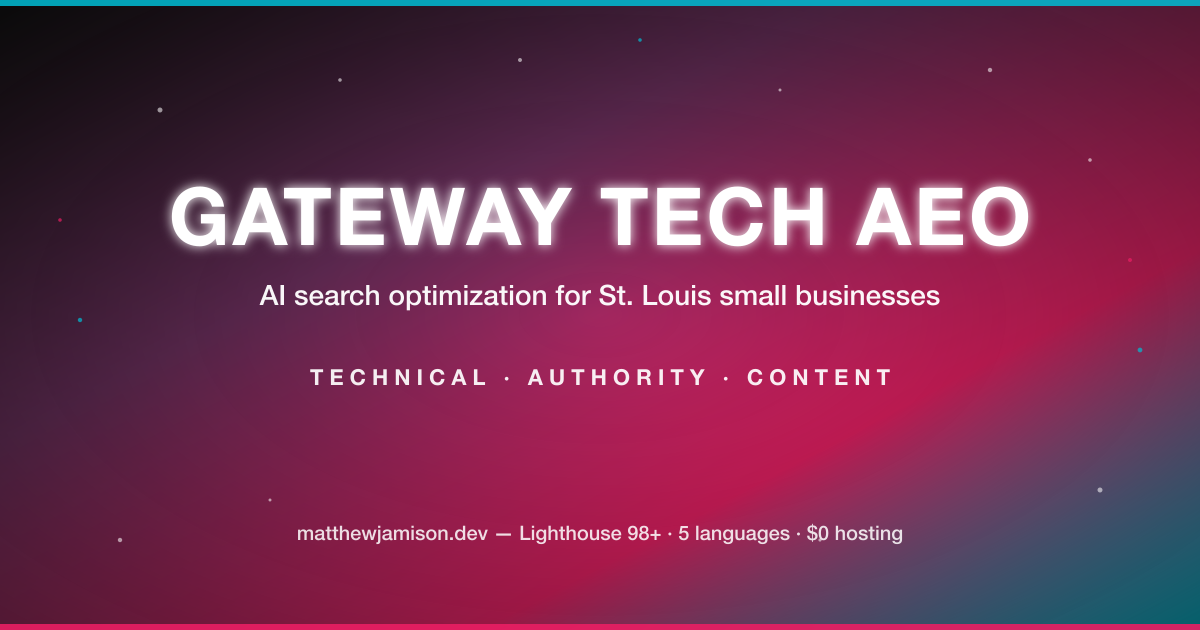
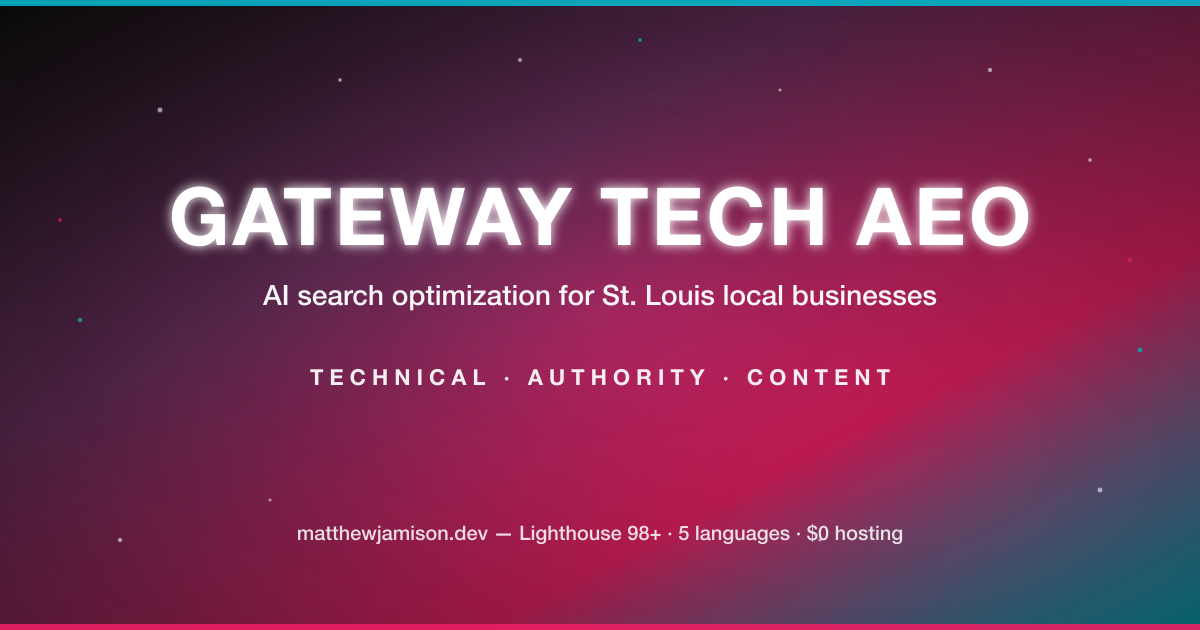
copy(aeo): lead hero with robots.txt + schema teach beat; shift small→local across EN+ES
Hero rewrite

Banner H1 now reads "Helping local businesses get cited by AI search."
The subtitle leads with the teach beat — answer engines pick what to cite
based on two free public signals, robots.txt and schema markup — both
hyperlinked to authoritative sources (Google Search Central + schema.org).
Verifiable claim sits at the end ("in your address bar — right now") so
the proof artifact closes the read.

Global "small business" → "local business"

Site-wide sweep across data files, blog posts, about page, demo cards,
JSON-LD descriptions, OG metadata, manifest, llms.txt, OG SVG + regenerated
PNG. Hugo title + description at the root + dev + prod configs.

Demo cards

Replaced corporate-slop description fields (only field that renders on
homepage given build.render: never) with concrete claims: theme name,
stack, Lighthouse 98/100, language count, and the one concrete savings
or capability that earns the demo a place on the page.

FAQ teach-first Q

Added Q2 in EN + ES: "What are robots.txt and schema markup, and why
do they matter for AEO?" Answer explains the two signals, named AI
crawlers (GPTBot, ClaudeBot, PerplexityBot), and the local business
default of blocking AI + shipping zero schema.

OG description fix

Banner subtitle carries markdown links. plainify alone leaves literal
[text](url) brackets in og:description and twitter:description. Wrapping
in markdownify first renders to HTML, then plainify strips tags cleanly.

Purgecss cleanup
[…]

Changed region(s): [[0.2158, 0.4524, 0.8017, 0.5127]]

diff --git a/layouts/partials/head.html b/layouts/partials/head.html
@@ -57,12 +57,15 @@
 	{{/* banner.title carries inline <em> HTML for the visible hero headline; strip it
 	     here so og:title / twitter:title ship clean text to social embeds and crawlers. */}}
 	{{ $ogTitle := cond .IsHome (printf "%s — %s" $brand.name (plainify $banner.title)) (printf "%s | %s" .Title site.Title) }}
-	{{ $ogDescription := cond .IsHome (plainify $banner.subtitle) (or .Description site.Params.description) }}
+	{{/* Banner subtitle carries markdown links (robots.txt, schema). Render
+	     markdown → HTML, then plainify strips the tags, so the OG/Twitter
+	     description ships clean text without literal "[text](url)" brackets. */}}
+	{{ $ogDescription := cond .IsHome (plainify (markdownify $banner.subtitle)) (or .Description site.Params.description) }}
 	{{/* Per-page OG image. Pages may set .Params.image (e.g. blog posts ship a
 	     1200×630 hero). Pages without an explicit image fall back to og-default.png.
 	     Audit M11 fix. */}}
 	{{ $ogImage := cond (isset .Params "image") (printf "%s%s" site.BaseURL (strings.TrimPrefix "/" (.Params.image | default ""))) (printf "%simages/og/og-default.png" site.BaseURL) }}
-	{{ $ogImageAlt := cond (isset .Params "image_alt") (.Params.image_alt | default "") (printf "%s — AI search optimization for St. Louis small businesses" $brand.name) }}
+	{{ $ogImageAlt := cond (isset .Params "image_alt") (.Params.image_alt | default "") (printf "%s — AI search optimization for St. Louis local businesses" $brand.name) }}
 
 	<!-- Open Graph / Facebook -->
 	<meta property="og:type" content="website">
@@ -97,7 +100,7 @@
 	{{ else }}
 	<meta name="robots" content="index, follow, max-image-preview:large, max-snippet:-1, max-video-preview:-1">
 	{{ end }}
-	<meta name="keywords" content="answer engine optimization, AEO, AI search optimization, schema markup, structured data, ChatGPT citations, Perplexity citations, Google AI Overview, St. Louis small business, full-stack developer">
+	<meta name="keywords" content="answer engine optimization, AEO, AI search optimization, schema markup, structured data, ChatGPT citations, Perplexity citations, Google AI Overview, St. Louis local business, full-stack developer">
 
 	{{/* hreflang alternates for every locale + x-default → EN. Audit C3. */}}
 	{{ range .AllTranslations }}
@@ -130,7 +133,7 @@
 					"url": "{{ site.BaseURL }}images/og/og-default.png"
 				},
 				"jobTitle": "Full-Stack Developer & AEO Consultant",
-				"description": "St. Louis AEO consultant and Ruby on Rails developer. The framework powers Shopify's 5.5M+ merchants, $300B+ in 2025 gross merchandise volume, and a single majestic monolith handling ~19M MySQL queries per second. 194+ merged pull requests on production Rails 8 codebases, verifiable on the operator's GitHub profile. Now offering Answer Engine Optimization services to St. Louis small businesses through {{ $brand.name }}.",
+				"description": "St. Louis AEO consultant and Ruby on Rails developer. The framework powers Shopify's 5.5M+ merchants, $300B+ in 2025 gross merchandise volume, and a single majestic monolith handling ~19M MySQL queries per second. 194+ merged pull requests on production Rails 8 codebases, verifiable on the operator's GitHub profile. Now offering Answer Engine Optimization services to St. Louis local businesses through {{ $brand.name }}.",
 				"knowsLanguage": ["en", "es", "ja", "fr", "de"],
 				"knowsAbout": [
 					"Answer Engine Optimization",
@@ -240,7 +243,7 @@
 			{
 				"@type": "ProfessionalService",
 				"@id": "{{ site.BaseURL }}#service",
-				"name": "Answer Engine Optimization for St. Louis Small Businesses",
+				"name": "Answer Engine Optimization for St. Louis Local Businesses",
 				"provider": { "@id": "{{ site.BaseURL }}#organization" },
 				"image": "{{ site.BaseURL }}images/og/og-default.png",
 				"priceRange": "$250 – $1,200/mo",
@@ -269,7 +272,7 @@
 					"Search Engine Optimization",
 					"Digital Marketing Consulting"
 				],
-				"description": "Three-tier AEO consulting for small businesses: a $250 audit, a $700 setup-and-hand-off, and a $500 to $1,200 per month managed retainer. Anti-guarantee posture; capped at 5 St. Louis clients in year one.",
+				"description": "Three-tier AEO consulting for local businesses: a $250 audit, a $700 setup-and-hand-off, and a $500 to $1,200 per month managed retainer. Anti-guarantee posture; capped at 5 St. Louis clients in year one.",
 				"offers": [
 					{{ range $i, $tier := $pricing.tiers }}{{ if $i }},{{ end }}
 					{

diff --git a/purge-css.js b/purge-css.js
@@ -27,10 +27,10 @@ async function purgeCSSFiles() {
         'collapse', 'navbar-collapse',
         'container', 'row',
         'btn', 'btn-transparent', 'page-scroll',
-        'hero-area', 'hero-gradient-overlay', 'video-button'
+        'hero-area', 'hero-gradient-overlay'
       ],
       deep: [/nav/, /navbar/, /btn/, /col-/, /hero/],
-      greedy: [/fade/, /pokemon/]
+      greedy: [/fade/]
     }
   });
 

diff --git a/purgecss.config.js b/purgecss.config.js
@@ -98,7 +98,6 @@ module.exports = {
   },
   rejected: [
     /carousel/, /modal/, /tooltip/, /popover/, /dropdown/, /alert/,
-    /badge/, /pagination/, /progress/, /spinner/, /toast/,
-    /portal-/, /sparkle/
+    /badge/, /pagination/, /progress/, /spinner/, /toast/
   ]
 };

diff --git a/content/english/blog/aeo-vs-seo-what-changed.md b/content/english/blog/aeo-vs-seo-what-changed.md
@@ -1,6 +1,6 @@
 ---
 title: "AEO vs SEO — what changed and what didn't"
-description: "Answer Engine Optimization is structuring a site so generative AI tools cite it as a source. SEO targets the ten blue links; AEO targets being the quoted answer. Tactics overlap; goals differ. Here's the working playbook from a St. Louis Rails developer running AEO for small business."
+description: "Answer Engine Optimization is structuring a site so generative AI tools cite it as a source. SEO targets the ten blue links; AEO targets being the quoted answer. Tactics overlap; goals differ. Here's the working playbook from a St. Louis Rails developer running AEO for local business."
 date: 2026-05-12
 lastmod: 2026-05-12
 draft: false
@@ -44,13 +44,13 @@ That's not a tier-1 vs tier-2 question. That's the *floor*. A site missing three
 
 [Gartner forecasts a 25% drop in traditional search engine volume by 2026](https://www.gartner.com/en/newsroom/press-releases/2024-02-19-gartner-predicts-search-engine-volume-will-drop-25-percent-by-2026-due-to-ai-chatbots-and-other-virtual-agents) as conversational interfaces absorb informational queries. [Adobe Digital Insights reported AI-driven traffic to U.S. retail sites grew 393% year-over-year between January and March 2026](https://business.adobe.com/blog/ai-traffic-surge-retail-sites-not-machine-readable), and the share has kept climbing through Q2. Those are not "interesting future trends." Those are revenue events that have already moved.
 
-The shift is more pronounced in informational queries — "how do I", "what is", "best X for Y" — where the answer engine can compose a confident response without sending traffic anywhere. Transactional queries ("buy", "near me", "open now") still flow heavily through classical search, which is why a small business that depends on local intent should not abandon Google Business Profile or paid search while it builds an AEO posture. The two channels are complementary, not substitutes, and at least through the next twelve months the budget split should reflect that.
+The shift is more pronounced in informational queries — "how do I", "what is", "best X for Y" — where the answer engine can compose a confident response without sending traffic anywhere. Transactional queries ("buy", "near me", "open now") still flow heavily through classical search, which is why a local business that depends on local intent should not abandon Google Business Profile or paid search while it builds an AEO posture. The two channels are complementary, not substitutes, and at least through the next twelve months the budget split should reflect that.
 
 ## What changed: the relationship with the publisher
 
 Classical SEO assumed the publisher (Google) wanted ten options on a page so the user could pick. Answer engines assume the user wants *one* answer. That changes the incentive: AEO is a winner-takes-most game per query. The site that gets cited in the answer collects the trust, the brand mention, and (sometimes) the link. The five sites that didn't get cited get nothing — not a #6 spot, not a partial mention. Nothing.
 
-The implication for small businesses is that consistency of identity matters more than ever. The `Organization.@id` graph on this site anchors every page back to a single entity at `https://matthewjamison.dev/#organization`. Every `BlogPosting` references the same `author` via `@id`. When an answer engine encounters the brand across thirty different pages, it resolves to one entity, not thirty. That's how an answer engine builds enough confidence to cite you by name instead of paraphrasing your content anonymously.
+The implication for local businesses is that consistency of identity matters more than ever. The `Organization.@id` graph on this site anchors every page back to a single entity at `https://matthewjamison.dev/#organization`. Every `BlogPosting` references the same `author` via `@id`. When an answer engine encounters the brand across thirty different pages, it resolves to one entity, not thirty. That's how an answer engine builds enough confidence to cite you by name instead of paraphrasing your content anonymously.
 
 ## What didn't change: E-E-A-T is still the moat
 
@@ -66,17 +66,17 @@ The author-bio card at the bottom of every post on this site exists for the huma
 
 ## What didn't change: the local pack
 
-For a St. Louis small business, [Google Business Profile (GBP)](https://www.google.com/business/) is still the highest-ROI lever. [Whitespark's 2026 Local Search Ranking Factors Report](https://whitespark.ca/local-search-ranking-factors/) puts Primary GBP Category at #1 for local pack appearance. Answer engines pull from GBP heavily — Perplexity and ChatGPT both cite Google's local data when answering "best X in St. Louis" prompts. If you have to pick one thing to fix first, it's GBP, not your website.
+For a St. Louis local business, [Google Business Profile (GBP)](https://www.google.com/business/) is still the highest-ROI lever. [Whitespark's 2026 Local Search Ranking Factors Report](https://whitespark.ca/local-search-ranking-factors/) puts Primary GBP Category at #1 for local pack appearance. Answer engines pull from GBP heavily — Perplexity and ChatGPT both cite Google's local data when answering "best X in St. Louis" prompts. If you have to pick one thing to fix first, it's GBP, not your website.
 
 ## What changed: review surfaces compound faster
 
-Reviews used to influence ranking. Now they influence *citation* in a measurable way. When an answer engine writes "the best-reviewed plumber in St. Louis is X," the underlying decision is built from a small bundle of corroborating signals — GBP review count, review recency, sentiment, and whether the same business name appears in third-party directory data. Inconsistent NAP (Name, Address, Phone) data across directories is what stops a small business from being named by an answer engine even when its reviews are excellent. Fix NAP first, then push for reviews; doing it in the other order leaves leverage on the table.
+Reviews used to influence ranking. Now they influence *citation* in a measurable way. When an answer engine writes "the best-reviewed plumber in St. Louis is X," the underlying decision is built from a small bundle of corroborating signals — GBP review count, review recency, sentiment, and whether the same business name appears in third-party directory data. Inconsistent NAP (Name, Address, Phone) data across directories is what stops a local business from being named by an answer engine even when its reviews are excellent. Fix NAP first, then push for reviews; doing it in the other order leaves leverage on the table.
 
 ## What this practice does
 
 I run [Gateway Tech AEO](/) as the side practice for what I do during the day on a production Rails 8 codebase. The same engineering rigor that keeps that codebase from breaking is what gets applied to a Mexican restaurant's GBP and schema markup. [Three tiers, prices public](/#pricing): an audit at $250, a setup-and-hand-off at $700, a managed retainer between $500 and $1,200 a month. I cap year one at five St. Louis clients. The cap is what lets me actually do the work myself instead of selling a slide deck.
 
-If you're a St. Louis small business owner wondering whether AI answer engines are sending you traffic, [send a brief](/#contact). I'll reply in 48–96 hours with something specific to your business — not a generic pitch.
+If you're a St. Louis local business owner wondering whether AI answer engines are sending you traffic, [send a brief](/#contact). I'll reply in 48–96 hours with something specific to your business — not a generic pitch.
 
 ## Further reading on this site
 

diff --git a/content/english/about/_index.md b/content/english/about/_index.md
@@ -1,6 +1,6 @@
 ---
 title: "About"
-description: "Matthew Jamison — St. Louis AEO consultant and Ruby on Rails developer. The framework that powers Shopify's 5.5M+ merchants pays my rent; Gateway Tech AEO is how I bring that engineering rigor to under-resourced St. Louis small businesses. Music identity, faith, family, and the posture behind the consulting."
+description: "Matthew Jamison — St. Louis AEO consultant and Ruby on Rails developer. The framework that powers Shopify's 5.5M+ merchants pays my rent; Gateway Tech AEO is how I bring that engineering rigor to under-resourced St. Louis local businesses. Music identity, faith, family, and the posture behind the consulting."
 date: 2026-05-07
 lastmod: 2026-05-09
 draft: false
@@ -10,7 +10,7 @@ schema_type: "AboutPage"
 keywords: ["Matthew Jamison", "Gateway Tech AEO", "St. Louis AEO consultant", "St. Louis Rails developer", "Answer Engine Optimization consultant", "AEO", "Ruby on Rails", "Shopify Rails monolith"]
 ---
 
-I'm Matthew Jamison — a **St. Louis AEO consultant** and Ruby on Rails developer. The framework I work in every day is the same one that powers Shopify's 5.5M+ merchants, $300B+ in 2025 gross merchandise volume, and the [majestic monolith](https://rubyonrails.org/foundation/shopify) handling roughly 19 million MySQL queries per second. I run [Gateway Tech AEO](https://gatewaytechaeo.com) on the side, a small Answer Engine Optimization practice for St. Louis small businesses. This page exists because someone hiring a solo operator deserves to know who they're hiring, what I actually do during the day, and why I kept the music side of the brand visible instead of hiding it.
+I'm Matthew Jamison — a **St. Louis AEO consultant** and Ruby on Rails developer. The framework I work in every day is the same one that powers Shopify's 5.5M+ merchants, $300B+ in 2025 gross merchandise volume, and the [majestic monolith](https://rubyonrails.org/foundation/shopify) handling roughly 19 million MySQL queries per second. I run [Gateway Tech AEO](https://gatewaytechaeo.com) on the side, a small Answer Engine Optimization practice for St. Louis local businesses. This page exists because someone hiring a solo operator deserves to know who they're hiring, what I actually do during the day, and why I kept the music side of the brand visible instead of hiding it.
 
 ## How I got here
 
@@ -22,13 +22,13 @@ I've been writing production Rails full-time since the transition. I've merged *
 
 The day job is a Rails 8 application on PostgreSQL behind Cloudflare. Same framework that runs Shopify's checkout, scaled down to a single industry application. It's the kind of stack where a missed migration or a sloppy validation costs real customers — that frames how I think about reliability, accessibility, and how much I'm willing to ship without a test.
 
-After hours and on Saturdays I run Gateway Tech AEO. Three tiers, prices public, no contracts longer than month-to-month, capped at five year-one clients in the St. Louis metro. Most of the work is Google Business Profile, schema markup, robots.txt and llms.txt for AI crawlers, FAQ-shaped content with primary-source citations, and the kind of structured-data-first templating that gets a small business cited by [ChatGPT](https://chat.openai.com/), [Perplexity](https://perplexity.ai/), and Google's AI Overview rather than buried under a national chain in the ten blue links.
+After hours and on Saturdays I run Gateway Tech AEO. Three tiers, prices public, no contracts longer than month-to-month, capped at five year-one clients in the St. Louis metro. Most of the work is Google Business Profile, schema markup, robots.txt and llms.txt for AI crawlers, FAQ-shaped content with primary-source citations, and the kind of structured-data-first templating that gets a local business cited by [ChatGPT](https://chat.openai.com/), [Perplexity](https://perplexity.ai/), and Google's AI Overview rather than buried under a national chain in the ten blue links.
 
 The transparency posture isn't a marketing choice — it's the only sustainable one for a solo practice. If I have to remember which prospect I quoted what, I lose. So everything is on the page: the prices, the cap, the methods, and the language about what I won't promise.
 
 ## Why this practice exists
 
-I get to do production-grade engineering for an organization with the budget to maintain it. Most of the small businesses I know in St. Louis don't have that budget — and yet the answer engines are taking real traffic from them right now. [Gartner forecasts traditional search engine volume will drop 25% by 2026](https://www.gartner.com/en/newsroom/press-releases/2024-02-19-gartner-predicts-search-engine-volume-will-drop-25-percent-by-2026-due-to-ai-chatbots-and-other-virtual-agents); [Adobe Digital Insights reported AI traffic to U.S. retail sites grew 393% year-over-year in Q1 2026](https://business.adobe.com/blog/ai-traffic-surge-retail-sites-not-machine-readable). A roofing contractor or a Mexican restaurant doesn't have the in-house engineering to respond to that. Big agencies will respond by selling them a $10,000 retainer they can't afford. I think it's worth one of us showing up with the same methods at small-business prices and seeing how far that goes.
+I get to do production-grade engineering for an organization with the budget to maintain it. Most of the local businesses I know in St. Louis don't have that budget — and yet the answer engines are taking real traffic from them right now. [Gartner forecasts traditional search engine volume will drop 25% by 2026](https://www.gartner.com/en/newsroom/press-releases/2024-02-19-gartner-predicts-search-engine-volume-will-drop-25-percent-by-2026-due-to-ai-chatbots-and-other-virtual-agents); [Adobe Digital Insights reported AI traffic to U.S. retail sites grew 393% year-over-year in Q1 2026](https://business.adobe.com/blog/ai-traffic-surge-retail-sites-not-machine-readable). A roofing contractor or a Mexican restaurant doesn't have the in-house engineering to respond to that. Big agencies will respond by selling them a $10,000 retainer they can't afford. I think it's worth one of us showing up with the same methods at local-business prices and seeing how far that goes.
 
 That's what Gateway Tech AEO is. It's also why the year-one client cap is five — slow growth means I can actually do the work myself, and there is no project manager on the other end of the email.
 

diff --git a/content/spanish/about/_index.md b/content/spanish/about/_index.md
@@ -1,6 +1,6 @@
 ---
 title: "Acerca de"
-description: "Matthew Jamison — consultor AEO de St. Louis y desarrollador de Ruby on Rails. El framework que impulsa los 5.5M+ comerciantes de Shopify paga mi alquiler; Gateway Tech AEO es cómo llevo ese rigor de ingeniería a pequeñas empresas de St. Louis con pocos recursos. Identidad musical, fe, familia y la postura detrás de la consultoría."
+description: "Matthew Jamison — consultor AEO de St. Louis y desarrollador de Ruby on Rails. El framework que impulsa los 5.5M+ comerciantes de Shopify paga mi alquiler; Gateway Tech AEO es cómo llevo ese rigor de ingeniería a negocios locales de St. Louis con pocos recursos. Identidad musical, fe, familia y la postura detrás de la consultoría."
 date: 2026-05-07
 lastmod: 2026-05-09
 draft: false
@@ -9,7 +9,7 @@ schema_type: "AboutPage"
 keywords: ["Matthew Jamison", "Gateway Tech AEO", "consultor AEO St. Louis", "desarrollador Rails St. Louis", "consultor de Optimización para Motores de Respuesta", "AEO", "Ruby on Rails", "monolito Rails Shopify"]
 ---
 
-Soy Matthew Jamison — **consultor AEO de St. Louis** y desarrollador de Ruby on Rails. El framework con el que trabajo todos los días es el mismo que sostiene los 5.5M+ comerciantes de Shopify, $300B+ en volumen de mercancía bruta de 2025, y el [monolito majestuoso](https://rubyonrails.org/foundation/shopify) que maneja unas 19 millones de consultas MySQL por segundo. Llevo [Gateway Tech AEO](https://gatewaytechaeo.com) como práctica paralela, una pequeña consultoría de Optimización para Motores de Respuesta para pequeñas empresas de St. Louis. Esta página existe porque quien contrata a un operador en solitario merece saber a quién está contratando, qué hago durante el día, y por qué dejé visible el lado musical de la marca en vez de ocultarlo.
+Soy Matthew Jamison — **consultor AEO de St. Louis** y desarrollador de Ruby on Rails. El framework con el que trabajo todos los días es el mismo que sostiene los 5.5M+ comerciantes de Shopify, $300B+ en volumen de mercancía bruta de 2025, y el [monolito majestuoso](https://rubyonrails.org/foundation/shopify) que maneja unas 19 millones de consultas MySQL por segundo. Llevo [Gateway Tech AEO](https://gatewaytechaeo.com) como práctica paralela, una pequeña consultoría de Optimización para Motores de Respuesta para negocios locales de St. Louis. Esta página existe porque quien contrata a un operador en solitario merece saber a quién está contratando, qué hago durante el día, y por qué dejé visible el lado musical de la marca en vez de ocultarlo.
 
 ## Cómo llegué aquí
 
@@ -21,13 +21,13 @@ He estado escribiendo Rails de producción a tiempo completo desde la transició
 
 El trabajo de día es una aplicación Rails 8 sobre PostgreSQL detrás de Cloudflare. El mismo framework que ejecuta el checkout de Shopify, escalado a una sola aplicación industrial. Es el tipo de stack donde una migración descuidada o una validación floja cuesta clientes reales — eso enmarca cómo pienso sobre fiabilidad, accesibilidad, y cuánto estoy dispuesto a desplegar sin pruebas.
 
-Después de horas y los sábados llevo Gateway Tech AEO. Tres niveles, precios públicos, sin contratos más largos que mes-a-mes, con un cupo de cinco clientes en el primer año en el área metropolitana de St. Louis. La mayoría del trabajo es Perfil de Empresa de Google, schema markup, robots.txt y llms.txt para crawlers de IA, contenido formato FAQ con citas de fuentes primarias, y el tipo de plantilla data-estructurada-primero que hace que una pequeña empresa sea citada por [ChatGPT](https://chat.openai.com/), [Perplexity](https://perplexity.ai/), y la IA de Google en lugar de quedar sepultada bajo una cadena nacional en los diez enlaces azules.
+Después de horas y los sábados llevo Gateway Tech AEO. Tres niveles, precios públicos, sin contratos más largos que mes-a-mes, con un cupo de cinco clientes en el primer año en el área metropolitana de St. Louis. La mayoría del trabajo es Perfil de Empresa de Google, schema markup, robots.txt y llms.txt para crawlers de IA, contenido formato FAQ con citas de fuentes primarias, y el tipo de plantilla data-estructurada-primero que hace que un negocio local sea citado por [ChatGPT](https://chat.openai.com/), [Perplexity](https://perplexity.ai/), y la IA de Google en lugar de quedar sepultada bajo una cadena nacional en los diez enlaces azules.
 
 La postura de transparencia no es decisión de marketing — es la única sostenible para una práctica solitaria. Si tengo que recordar a qué prospecto cité qué, pierdo. Así que todo está en la página: los precios, el cupo, los métodos, y el lenguaje sobre lo que no prometo.
 
 ## Por qué existe esta práctica
 
-Hago ingeniería de producción para una organización que tiene presupuesto para mantenerla. La mayoría de las pequeñas empresas que conozco en St. Louis no tienen ese presupuesto — y sin embargo los motores de respuesta les están quitando tráfico real ahora mismo. [Gartner pronostica que el volumen de búsqueda tradicional caerá 25% para 2026](https://www.gartner.com/en/newsroom/press-releases/2024-02-19-gartner-predicts-search-engine-volume-will-drop-25-percent-by-2026-due-to-ai-chatbots-and-other-virtual-agents); [Adobe Digital Insights reportó que el tráfico IA a sitios de retail de EE.UU. creció 393% interanual en Q1 2026](https://business.adobe.com/blog/ai-traffic-surge-retail-sites-not-machine-readable). Un techador o un restaurante mexicano no tiene la ingeniería interna para responder a eso. Las grandes agencias responderán vendiéndoles un retainer de $10,000 que no pueden pagar. Creo que vale la pena que uno de nosotros aparezca con los mismos métodos a precios para pequeñas empresas y ver hasta dónde llega.
+Hago ingeniería de producción para una organización que tiene presupuesto para mantenerla. La mayoría de las negocios locales que conozco en St. Louis no tienen ese presupuesto — y sin embargo los motores de respuesta les están quitando tráfico real ahora mismo. [Gartner pronostica que el volumen de búsqueda tradicional caerá 25% para 2026](https://www.gartner.com/en/newsroom/press-releases/2024-02-19-gartner-predicts-search-engine-volume-will-drop-25-percent-by-2026-due-to-ai-chatbots-and-other-virtual-agents); [Adobe Digital Insights reportó que el tráfico IA a sitios de retail de EE.UU. creció 393% interanual en Q1 2026](https://business.adobe.com/blog/ai-traffic-surge-retail-sites-not-machine-readable). Un techador o un restaurante mexicano no tiene la ingeniería interna para responder a eso. Las grandes agencias responderán vendiéndoles un retainer de $10,000 que no pueden pagar. Creo que vale la pena que uno de nosotros aparezca con los mismos métodos a precios para negocios locales y ver hasta dónde llega.
 
 Eso es Gateway Tech AEO. También es por eso que el cupo de cinco en el primer año — el crecimiento lento significa que puedo hacer el trabajo yo mismo, y no hay un gerente de proyecto al otro lado del correo.
 

diff --git a/content/english/blog/robots-txt-llms-txt-for-ai-crawlers.md b/content/english/blog/robots-txt-llms-txt-for-ai-crawlers.md
@@ -108,7 +108,7 @@ Below is the structure of the actual `llms.txt` deployed at `/llms.txt`. The [ll
 ```
 # Gateway Tech AEO
 
-> Answer Engine Optimization for St. Louis small businesses, run by a
+> Answer Engine Optimization for St. Louis local businesses, run by a
 > working Ruby on Rails developer. Three honest tiers, anti-guarantee
 > posture, capped at five year-one clients. Operator: Matthew Jamison
 > — a St. Louis AEO consultant; verifiable evidence on this site
@@ -166,7 +166,7 @@ Three details that catch people the first time they set this up:
 
 **Anthropic has three current crawler names plus two legacy ones.** [Anthropic's current support article](https://support.claude.com/en/articles/8896518-does-anthropic-crawl-data-from-the-web-and-how-can-site-owners-block-the-crawler) enumerates `ClaudeBot` (training), `Claude-User` (live retrieval on a user's behalf), and `Claude-SearchBot` (search). Older robots.txt files still reference `anthropic-ai` and `Claude-Web`; those names are not in the current documentation, so treat them as legacy and verify against the support URL above rather than against secondary blog posts.
 
-**Perplexity has a verified-IP system, not just a user-agent.** [Perplexity's bots doc](https://docs.perplexity.ai/guides/bots) publishes an IP range list. Sites that want a stricter posture can require the IP range as the source of truth and treat the user-agent as merely a hint. Most small business sites won't need that level of verification.
+**Perplexity has a verified-IP system, not just a user-agent.** [Perplexity's bots doc](https://docs.perplexity.ai/guides/bots) publishes an IP range list. Sites that want a stricter posture can require the IP range as the source of truth and treat the user-agent as merely a hint. Most local business sites won't need that level of verification.
 
 ## How to verify your file works
 
@@ -184,7 +184,7 @@ This post is also self-evidence. If you fetched `/robots.txt` and `/llms.txt` on
 
 That's not a clever rhetorical flourish. That's the entire point of running AEO from an engineering posture: every claim on the marketing surface is independently verifiable, every public template is the same file the operator deploys against, and the test suite is the thing that prevents the marketing copy from quietly aging into a lie.
 
-If you're a St. Louis small business owner and you want help setting both files up — plus the Google Business Profile, plus the FAQ schema, plus the `BlogPosting` markup that makes this post citable in the first place — [send a brief](/#contact). I run a [three-tier practice](/#pricing): a $250 audit, a $700 setup-and-hand-off, or a $500–$1,200/month managed retainer.
+If you're a St. Louis local business owner and you want help setting both files up — plus the Google Business Profile, plus the FAQ schema, plus the `BlogPosting` markup that makes this post citable in the first place — [send a brief](/#contact). I run a [three-tier practice](/#pricing): a $250 audit, a $700 setup-and-hand-off, or a $500–$1,200/month managed retainer.
 
 ## Further reading on this site
 

diff --git a/content/english/demos/demo-3-ecommerce.md b/content/english/demos/demo-3-ecommerce.md
@@ -8,7 +8,7 @@ build:
 demo_url: "https://demo-ecommerce-am8.pages.dev"
 github_url: "https://github.com/MatthewJamisonJS/demo-ecommerce"
 theme_name: "Hargo"
-description: "Launch your online store and start generating revenue in weeks, not months. Professional product showcases, seamless checkout flows, and mobile-optimized shopping experiences maximize conversions and reduce cart abandonment across 5 languages."
+description: "Hargo theme, Hugo + Snipcart + Stripe, 98/100 Lighthouse, five-language storefront. Static site at zero hosting cost versus Shopify Plus at $600/month."
 image: "/images/demos/demo-3-ecommerce.webp"
 challenge: "International expansion blocked by lack of multilingual support"
 solution_time: "2-3 weeks"
@@ -100,7 +100,7 @@ A complete e-commerce solution built with Hugo and modern payment integrations. 
 ## Use Cases
 
 Perfect for:
-- Small business online stores
+- Local business online stores
 - Artist and creator shops
 - Digital product sales
 - Physical goods retailers

diff --git a/content/spanish/demos/demo-3-ecommerce.md b/content/spanish/demos/demo-3-ecommerce.md
@@ -8,7 +8,7 @@ build:
 demo_url: "https://demo-ecommerce-am8.pages.dev"
 github_url: "https://github.com/MatthewJamisonJS/demo-ecommerce"
 theme_name: "Hargo"
-description: "Lance su tienda en línea y comience a generar ingresos en semanas, no meses. Exhibiciones profesionales de productos, flujos de pago sin fricciones y experiencias de compra optimizadas para móviles maximizan conversiones y reducen el abandono del carrito en 5 idiomas."
+description: "Tema Hargo, Hugo + Snipcart + Stripe, Lighthouse 98/100, tienda en cinco idiomas. Sitio estático a cero coste de hosting frente a Shopify Plus a $600/mes."
 image: "/images/demos/demo-3-ecommerce.webp"
 challenge: "Expansión internacional bloqueada por falta de soporte multilingüe"
 solution_time: "2-3 semanas"
@@ -62,7 +62,7 @@ Una solución de comercio electrónico completa construida con Hugo e integracio
 ## Casos de uso
 
 Perfecto para:
-- Tiendas en línea de pequeñas empresas
+- Tiendas en línea de negocios locales
 - Tiendas de artistas y creadores
 - Ventas de productos digitales
 - Minoristas de bienes físicos

diff --git a/content/english/blog/_index.md b/content/english/blog/_index.md
@@ -1,6 +1,6 @@
 ---
 title: "Field Notes"
-description: "Long-form notes from a St. Louis Rails developer doing AEO for small businesses outside business hours. Pillar pieces on schema, robots.txt, llms.txt, Google Business Profile, and the answer-engine citation game."
+description: "Long-form notes from a St. Louis Rails developer doing AEO for local businesses outside business hours. Pillar pieces on schema, robots.txt, llms.txt, Google Business Profile, and the answer-engine citation game."
 date: 2026-05-12
 lastmod: 2026-05-12
 draft: false

diff --git a/content/english/demos/demo-1-agency.md b/content/english/demos/demo-1-agency.md
@@ -8,7 +8,7 @@ build:
 demo_url: "https://demo-agency.pages.dev"
 github_url: "https://github.com/MatthewJamisonJS/demo-agency"
 theme_name: "Andromeda Light"
-description: "Win client trust instantly with a polished agency presence. Showcase your portfolio, convert visitors into leads, and establish credibility—launch-ready in weeks with zero hosting costs and 98/100 performance."
+description: "Andromeda Light theme, Hugo + Tailwind, 98/100 Lighthouse, five-language i18n. Replaces a $500/month WordPress build at zero ongoing hosting cost."
 image: "/images/demos/demo-1-agency.webp"
 challenge: "Slow WordPress site costing $500/mo in hosting, poor mobile performance"
 solution_time: "2-3 weeks"

diff --git a/content/english/demos/demo-2-saas.md b/content/english/demos/demo-2-saas.md
@@ -8,7 +8,7 @@ build:
 demo_url: "https://demo-saas.pages.dev"
 github_url: "https://github.com/MatthewJamisonJS/demo-saas"
 theme_name: "Bigspring Light"
-description: "Drive signups and slash customer acquisition costs with conversion-optimized design. Clear value propositions, compelling pricing, and trust-building elements turn visitors into paying customers—fast, professional, and built to scale globally."
+description: "Bigspring Light theme, Hugo + Alpine.js, 98/100 Lighthouse, sub-second loads across five locales. Launch-ready landing page for a product hitting multiple markets at once."
 image: "/images/demos/demo-2-saas.webp"
 challenge: "Need fast landing page for product launch, must support multiple markets"
 solution_time: "2-3 weeks"